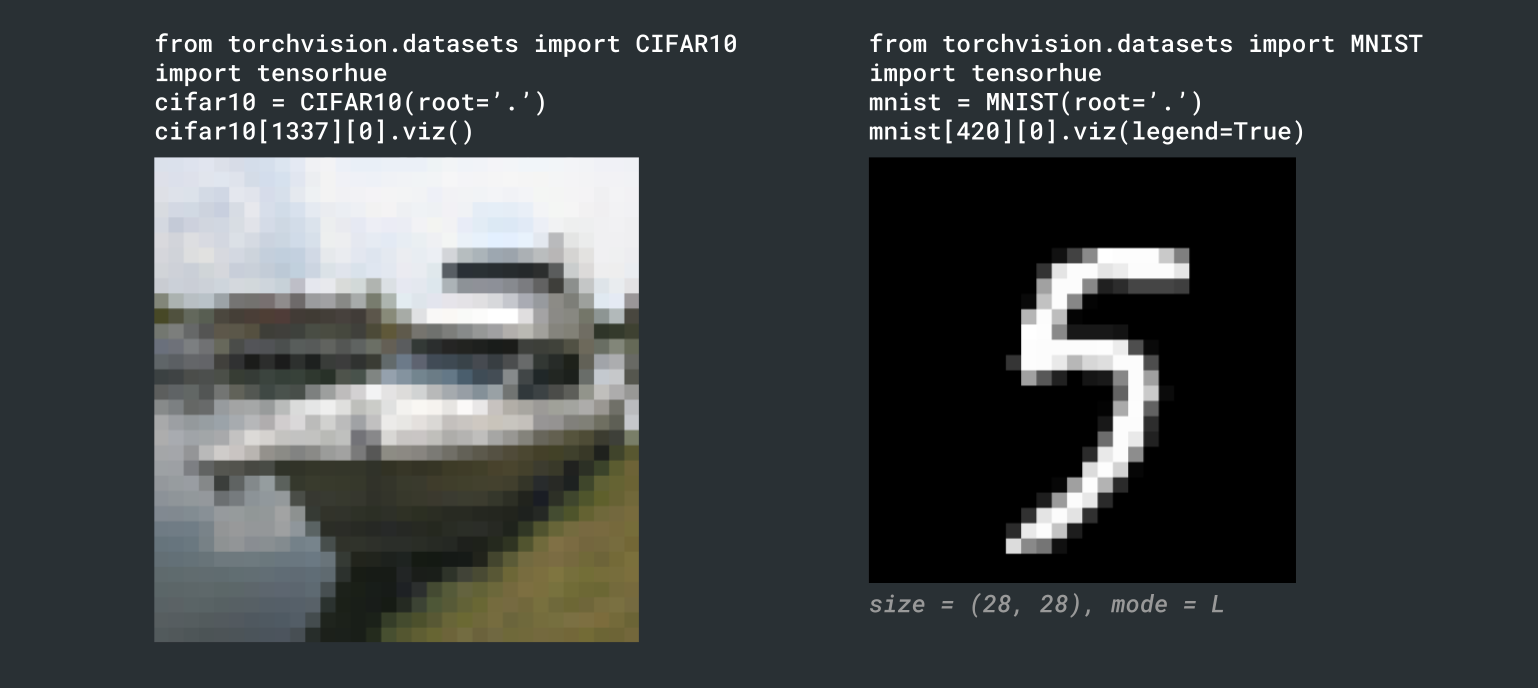
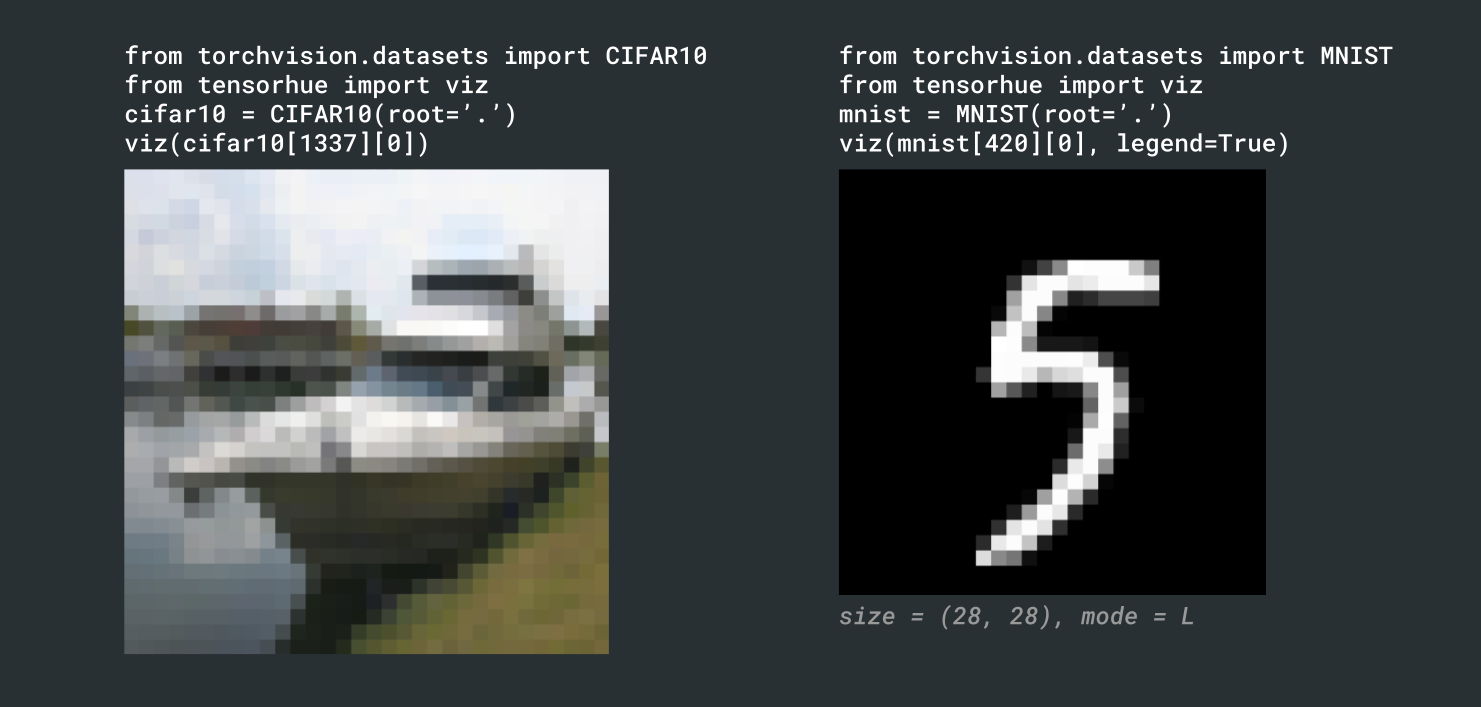
update README and images

Changed region(s): [[0.0621, 0.0305, 0.497, 0.9462], [0.5591, 0.0305, 0.9629, 0.9157], [0.3417, 0.1526, 0.3727, 0.1831]]

diff --git a/tensorhue/__init__.py b/tensorhue/__init__.py
@@ -11,11 +11,11 @@ __version__ = "0.1.0"  # single source of version truth
 __all__ = ["set_printoptions", "viz", "pride"]
 
 
-# show deprecation warning for t.viz() syntax
+# show deprecation warning for t.viz() usage
 # delete everything below this line after version 0.2.0
 
 
-def _viz_is_deprecated():
+def _viz_is_deprecated(self):
     raise DeprecationWarning("The tensor.viz() function has been deprecated. Please use tensorhue.viz(tensor) instead.")
 
 

diff --git a/README.md b/README.md
@@ -36,11 +36,17 @@ Install TensorHue with pip:
 pip install tensorhue
 ```
 
-Using TensorHue is easy, simply import TensorHue *after* importing the library of your choice:
+Using TensorHue is easy, simply import TensorHue together with the library of your choice:
 
 ```python
 import torch
 import tensorhue
+```
+
+Or, alternatively:
+
+```python
+from tensorhue import viz
 ```
 
 That's it! You can now visualize any tensor by calling .viz() on it in your Python console:
@@ -52,7 +58,7 @@ tensorhue.viz(t) ✅
 
 ## Images
 
-Pillow images can be visualized in RGB using `.viz()`:
+Pillow images can be visualized in RGB and other color modes:
 
 ```python
 from torchvision.datasets import CIFAR10
@@ -82,7 +88,7 @@ from matplotlib import colormaps
 cs = ColorScheme(colormap=colormaps['inferno'],
                  true_color=(255,255,255),
                  false_color=(0,0,0))
-tensorhue.viz(t, cs) ✅
+tensorhue.viz(t, colorscheme=cs) ✅
 ```
 
 Alternatively, you can overwrite the default ColorScheme:
@@ -100,7 +106,7 @@ By default, TensorHue normalizes numerical values between 0 and 1 and then appli
 from matplotlib.colors import CenteredNorm
 cs = ColorScheme(colormap=colormaps['bwr'],
                  normalize=CenteredNorm(vcenter=0))
-tensorhue.viz(t, cs) ✅
+tensorhue.viz(t, colorscheme=cs) ✅
 ```
 
 You can also specify the normalization range manually, for example when you want to visualize a confusion matrix where colors should be mapped to the range [0, 1], but the actual values of the tensor are in the range [0.12, 0.73]:
